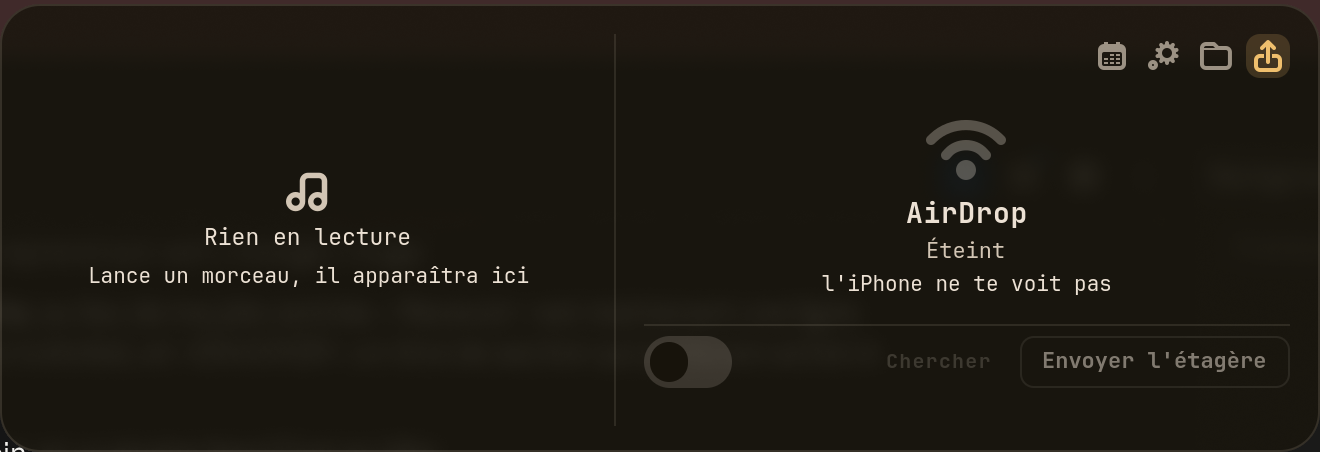
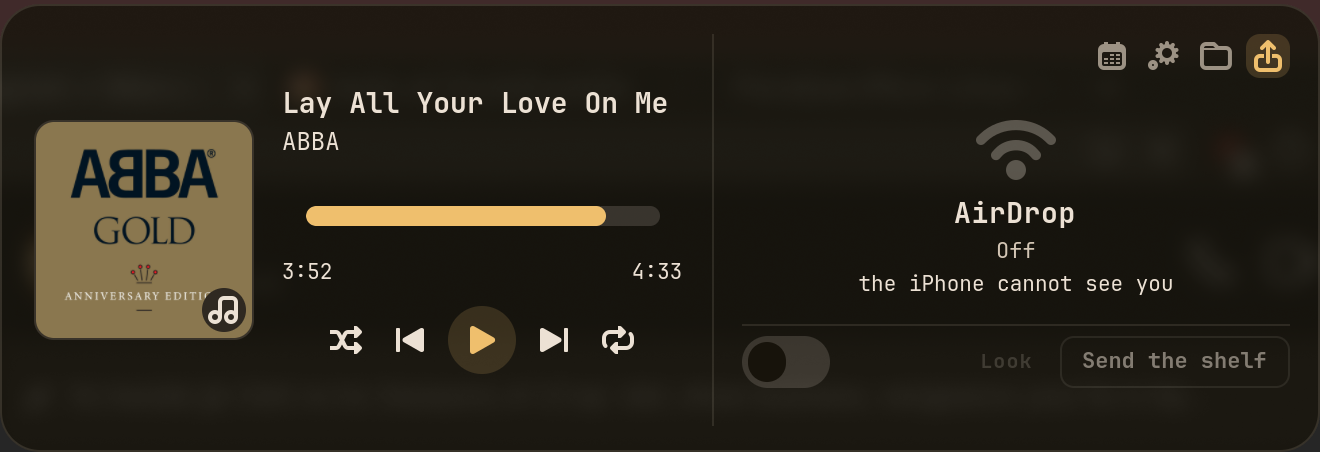
Make the language switch reach the notch and the dock
The switcher already existed - a flag in HyprSettings' header, writing
~/.config/hypr/scripts/.hyprsettings-lang, which the notch and HyprWhale
both read. What it did not do was reach them: both read the file once, at
startup, so changing the language rewrote the settings window and nothing
else. From outside that looks like a setting that does not work.

Restart the two consumers when the language changes, and only the ones
actually running. Finding them reads /proc for an exact path match rather
than shelling out to pkill: a pattern wide enough to catch
"python .../HyprNotch.py" also catches the shell looking for it, and kills
itself.

Screenshots retaken in English. The states montage is a new one and it is
now reproducible: a sandbox HOME with a fake airdropd lets the widget be
driven through all eight states without putting a radio into each of them,
which is why the old one was missing half of them. Renamed to
airdrop-states.png to match the English README.

diff --git a/config/hypr/scripts/HyprSettings.py b/config/hypr/scripts/HyprSettings.py
@@ -8,6 +8,7 @@ changement en direct via `hyprctl keyword`.
 import io
 import os
 import re
+import signal
 import subprocess
 
 import gi
@@ -183,7 +184,7 @@ T = {
         "reload": "Recharger depuis le fichier",
         "saved": "Enregistré dans looknfeel.conf",
         "reloaded": "Valeurs rechargées depuis le fichier",
-        "lang_menu": "Langue",
+        "lang_menu": "Langue — réglages, notch et docker",
         "hint": ("Les changements s'appliquent en direct",
                  "Rien n'est écrit tant que tu n'as pas cliqué sur Enregistrer."),
         "g_spacing": ("Espacements", "Marges autour et entre les fenêtres"),
@@ -222,7 +223,7 @@ T = {
         "reload": "Reload from file",
         "saved": "Saved to looknfeel.conf",
         "reloaded": "Values reloaded from file",
-        "lang_menu": "Language",
+        "lang_menu": "Language — settings, notch and dock",
         "hint": ("Changes apply instantly",
                  "Nothing is written to disk until you click Save."),
         "g_spacing": ("Spacing", "Margins around and between windows"),
@@ -339,6 +340,62 @@ def save_lang(lang):
             handle.write(lang)
     except OSError:
         pass
+
+
+# Les composants qui lisent LANG_FILE une seule fois, a leur demarrage. Le
+# fichier ne suffit donc pas : sans relance, changer la langue ici ne changeait
+# que cette fenetre, et le notch restait dans l'ancienne jusqu'a la prochaine
+# session - ce qui donne l'impression que le reglage ne marche pas.
+LANG_CONSUMERS = (
+    os.path.expanduser("~/.config/hypr/scripts/HyprNotch.py"),
+    os.path.expanduser("~/.config/hypr/scripts/HyprWhale.py"),
+)
+
+
+def _pids_running(script):
+    """PID des processus dont la ligne de commande contient ce chemin.
+
+    On lit /proc plutot que d'appeler pkill : un motif assez large pour
+    attraper "python .../HyprNotch.py" attrape aussi le shell qui le cherche,
+    et se tue lui-meme. Ici on compare des chemins exacts, et on s'exclut.
+    """
+    me = os.getpid()
+    found = []
+    for entry in os.listdir("/proc"):
+        if not entry.isdigit() or int(entry) == me:
+            continue
+        try:
+            with open("/proc/%s/cmdline" % entry, "rb") as fh:
+                args = fh.read().split(b"\0")
+        except OSError:
+            continue
+        if any(arg.decode("utf-8", "replace") == script for arg in args):
+            found.append(int(entry))
+    return found
+
+
+def restart_lang_consumers():
+    """Relance ceux qui tournent, laisse dormir ceux qui ne tournent pas."""
+    for script in LANG_CONSUMERS:
+        pids = _pids_running(script)
+        if not pids:
+            continue
+        for pid in pids:
+            try:
+                os.kill(pid, signal.SIGTERM)
+            except OSError:
+                pass
+        # Laisser la surface layer-shell se retirer avant d'en redemander une :
+        # deux notchs qui se chevauchent une seconde, c'est visible.
+        GLib.timeout_add(400, _respawn, script)
+
+
+def _respawn(script):
+    try:
+        subprocess.Popen([script], start_new_session=True)
+    except OSError:
+        pass
+    return False
 
 
 # --------------------------------------------------------------------------
@@ -485,6 +542,7 @@ class SettingsWindow(Adw.ApplicationWindow):
         self.lang = code
         save_lang(code)
         self.rebuild()
+        restart_lang_consumers()
 
     # -- (re)construction --------------------------------------------------
 

diff --git a/README.md b/README.md
@@ -30,7 +30,7 @@ Nothing above uses a fixed colour. Every state below is the same palette,
 derived from the current wallpaper — `primary` for visible, `tertiary` for a
 transition, `error` for a fault:
 
-![AirDrop states](docs/screens/airdrop-etats.png)
+![AirDrop states](docs/screens/airdrop-states.png)
 
 ---
 
